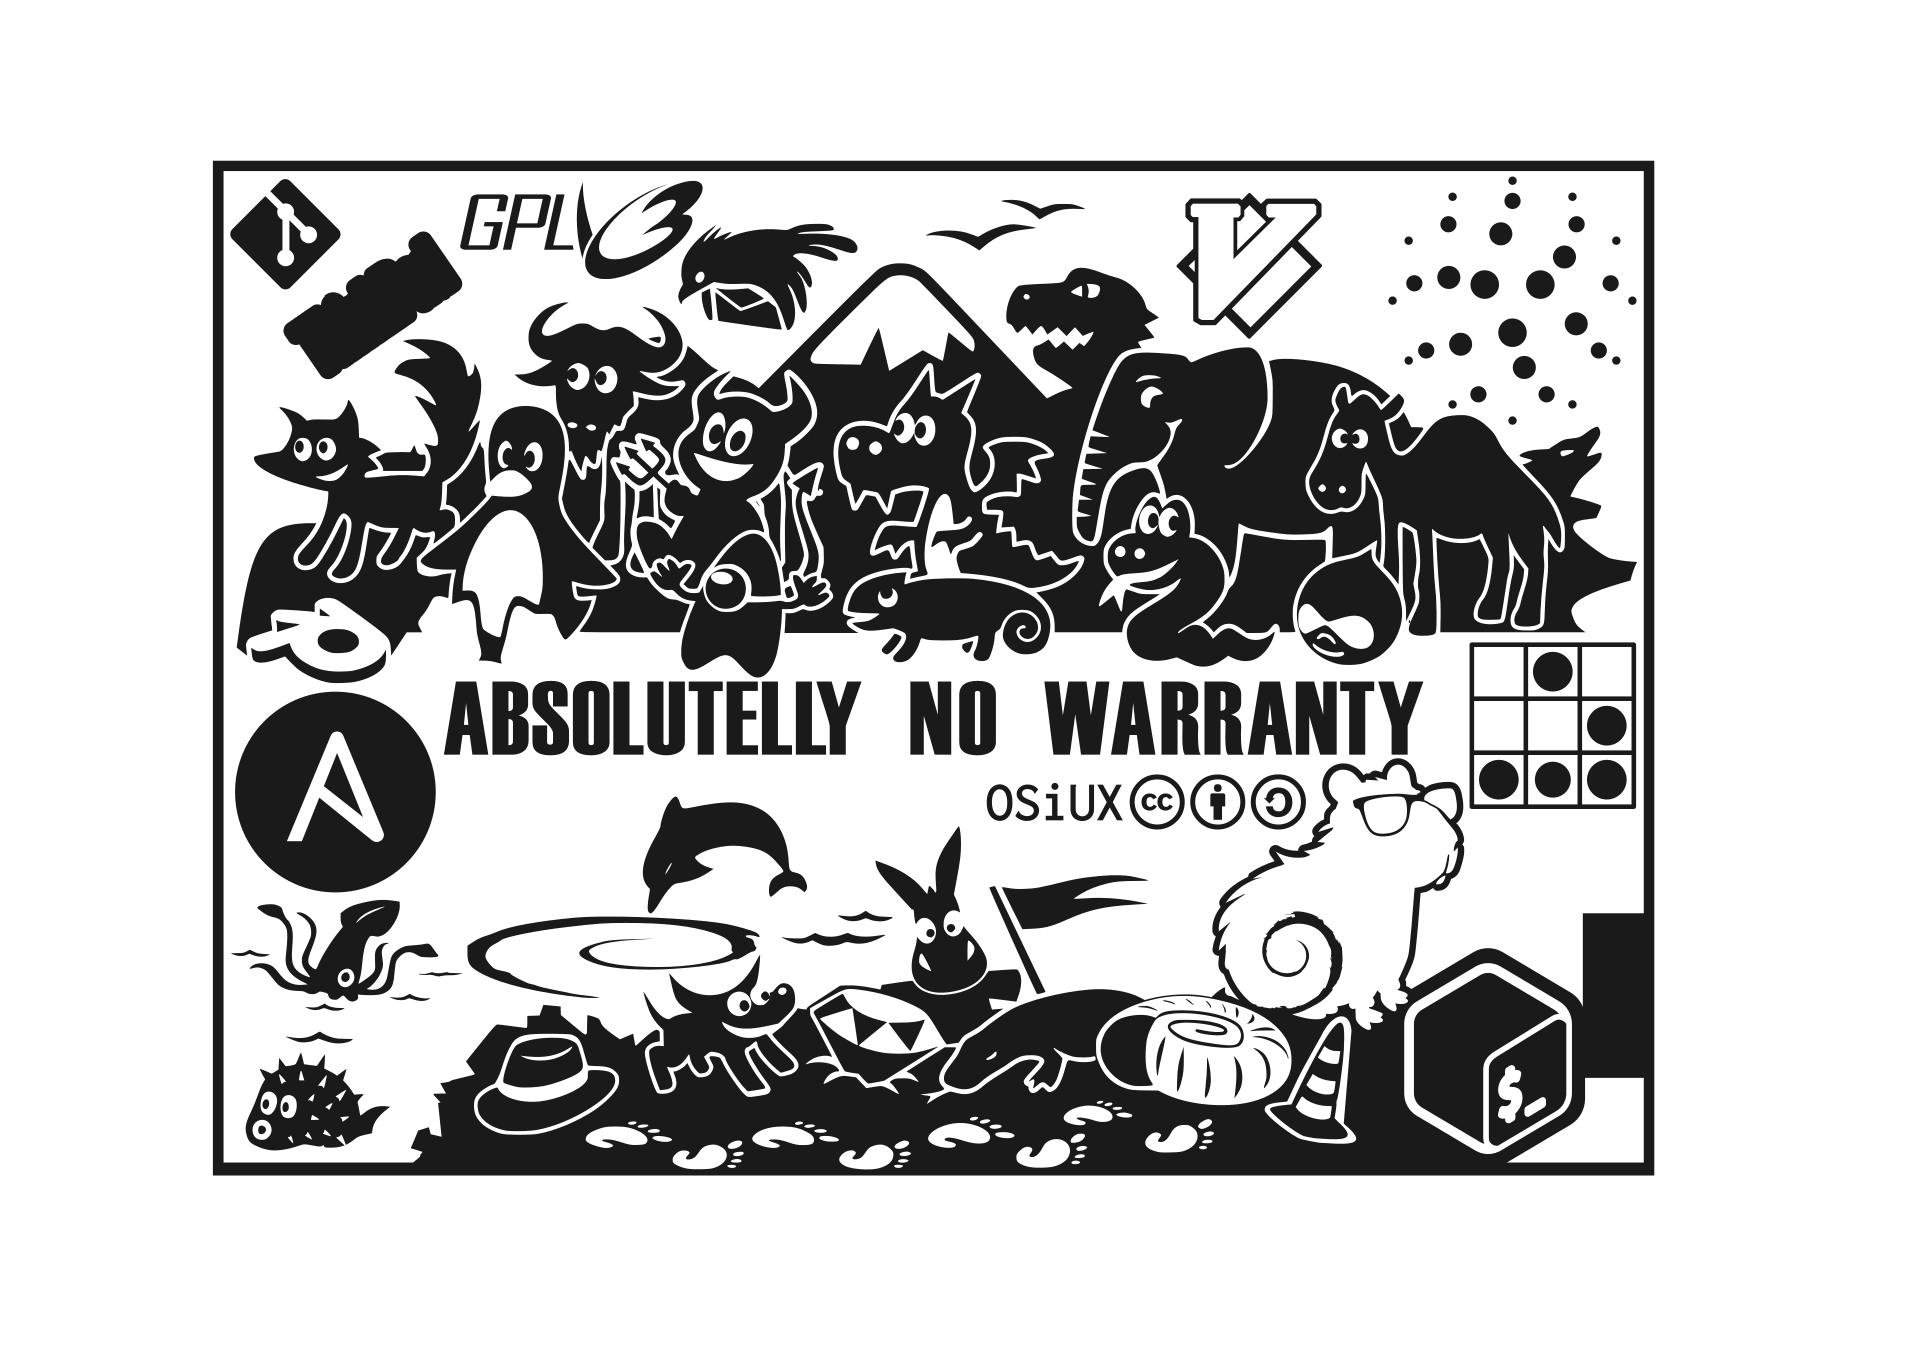
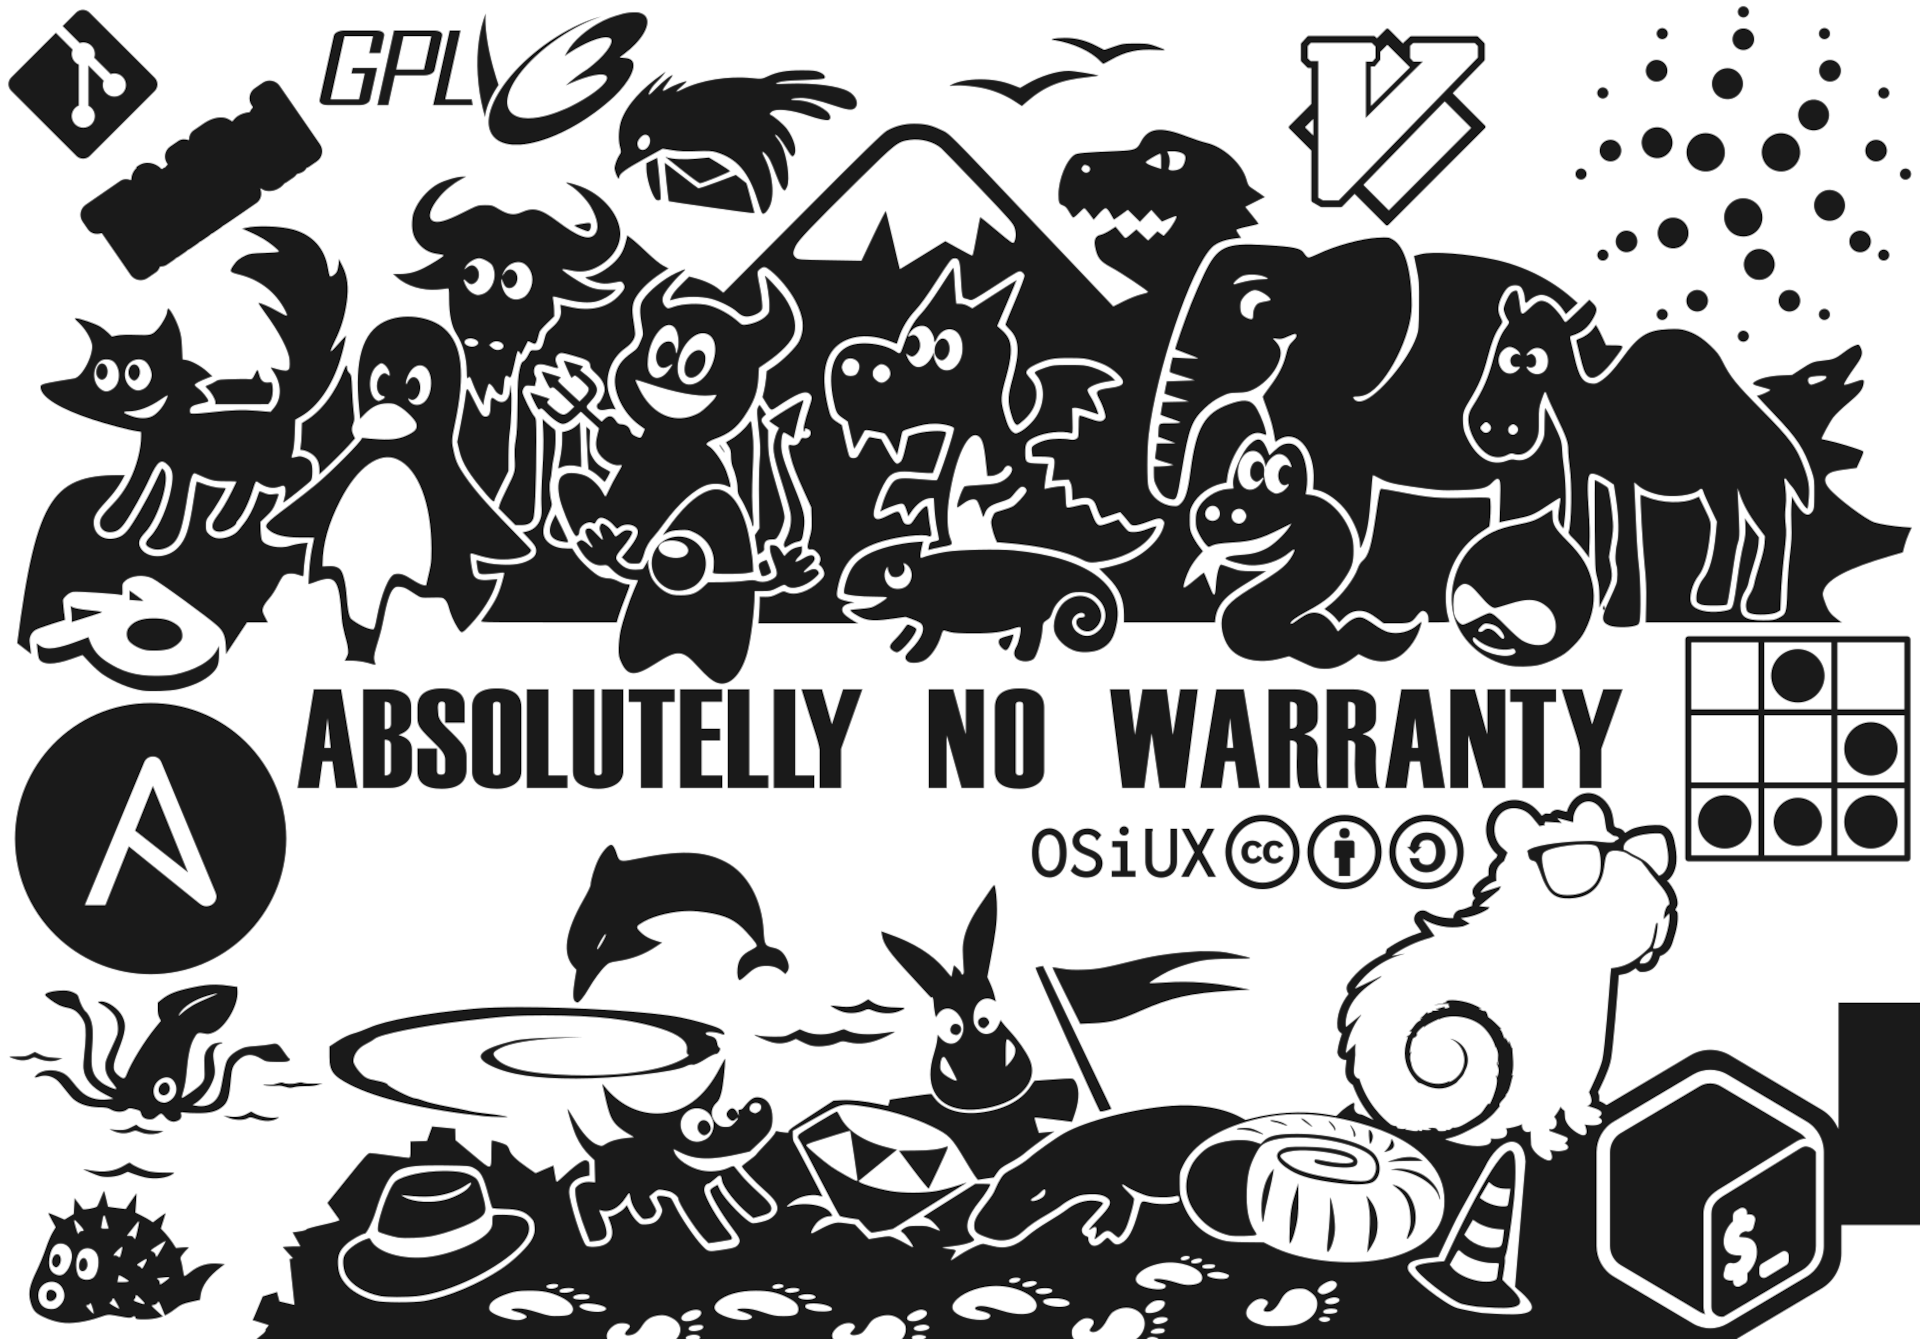
README: update date, add v03 image
@ 00:05 hs

diff --git a/README.md b/README.md
@@ -1,10 +1,16 @@
 ---
 title: Thinkpad HackToon FLOSS Vinyl by OSiUX
-date: 2022-04-22
+date: 2026-05-29
 author: Osiris Alejandro Gomez osiux@osiux.com
 ---
 
 # Thinkpad HackToon FLOSS Vinyl by OSiUX
+
+## `v03`
+
+[![](tmb/thinkpad-hacktoon-floss-vinyl-t14-amd.jpg)](file:img/thinkpad-hacktoon-floss-vinyl-t14.jpg)
+
+## `v02`
 
 [![](tmb/thinkpad-hacktoon-floss-vinyl-t14.jpg)](file:img/thinkpad-hacktoon-floss-vinyl-t14.jpg)
 
